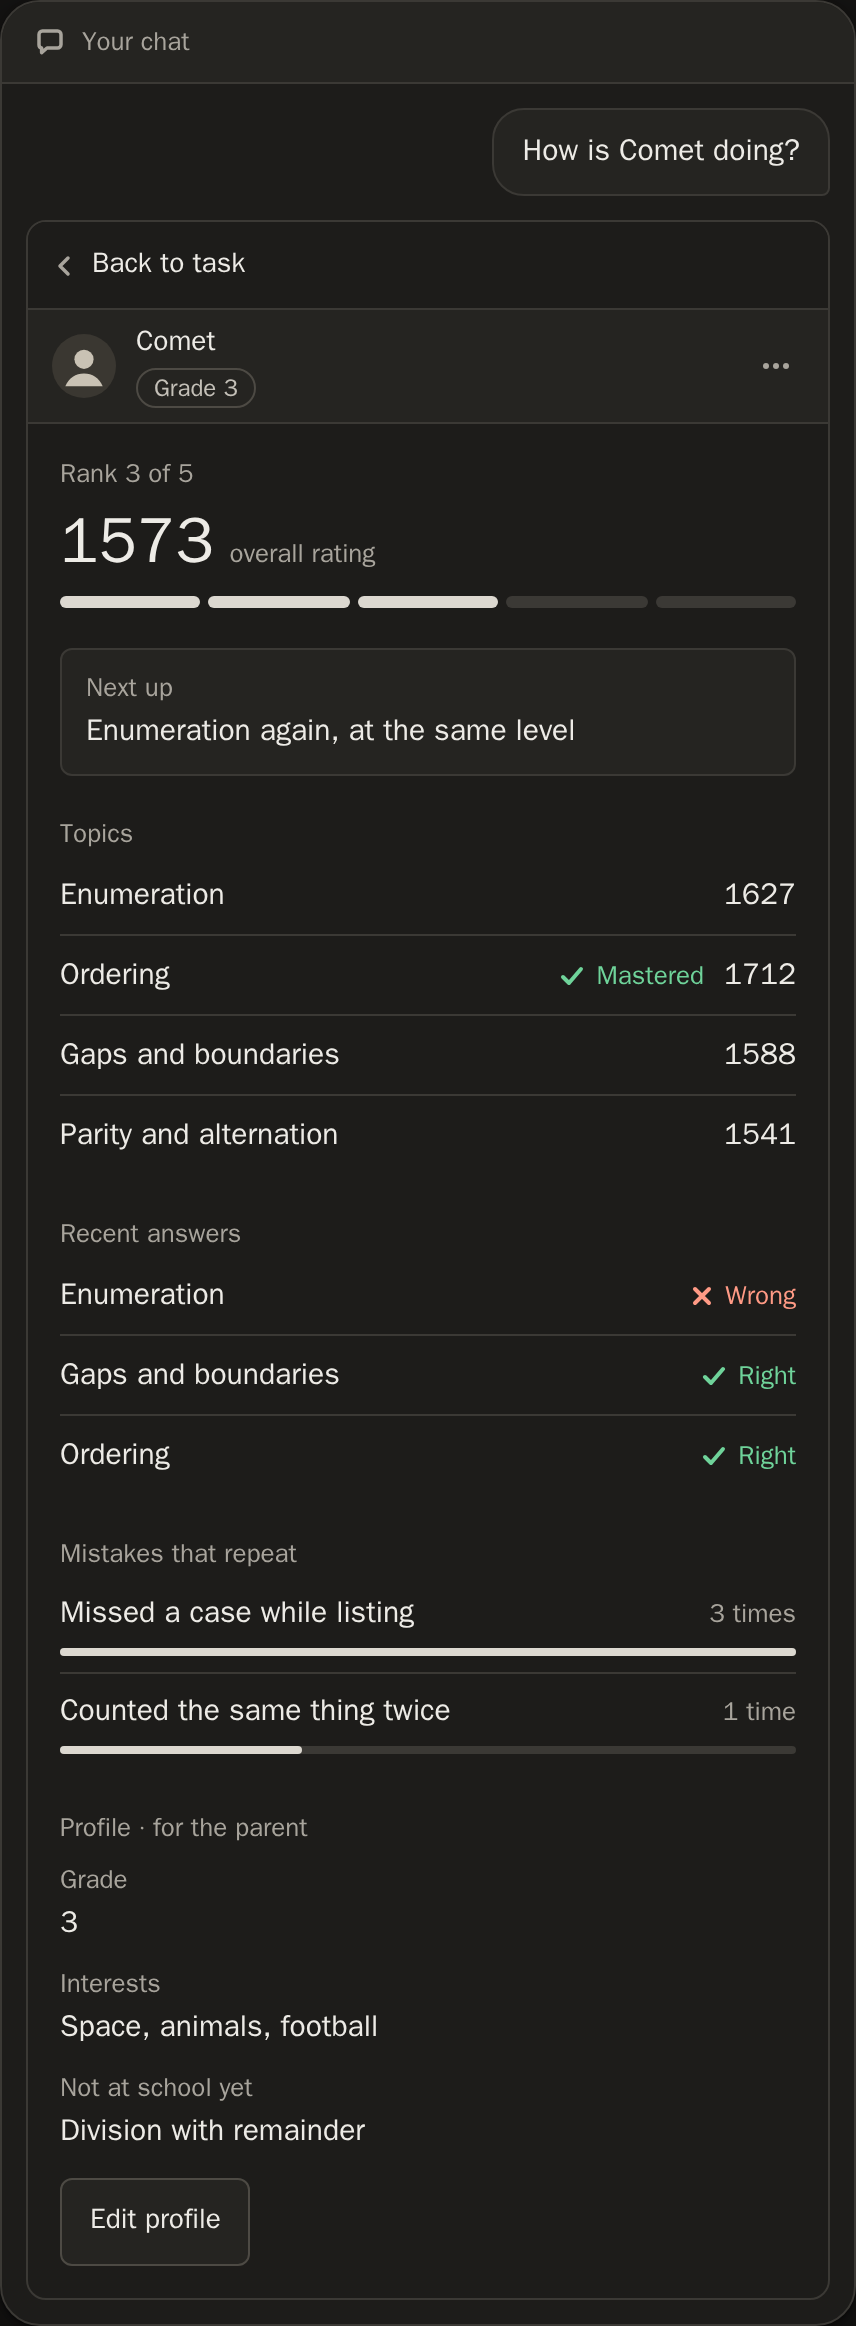
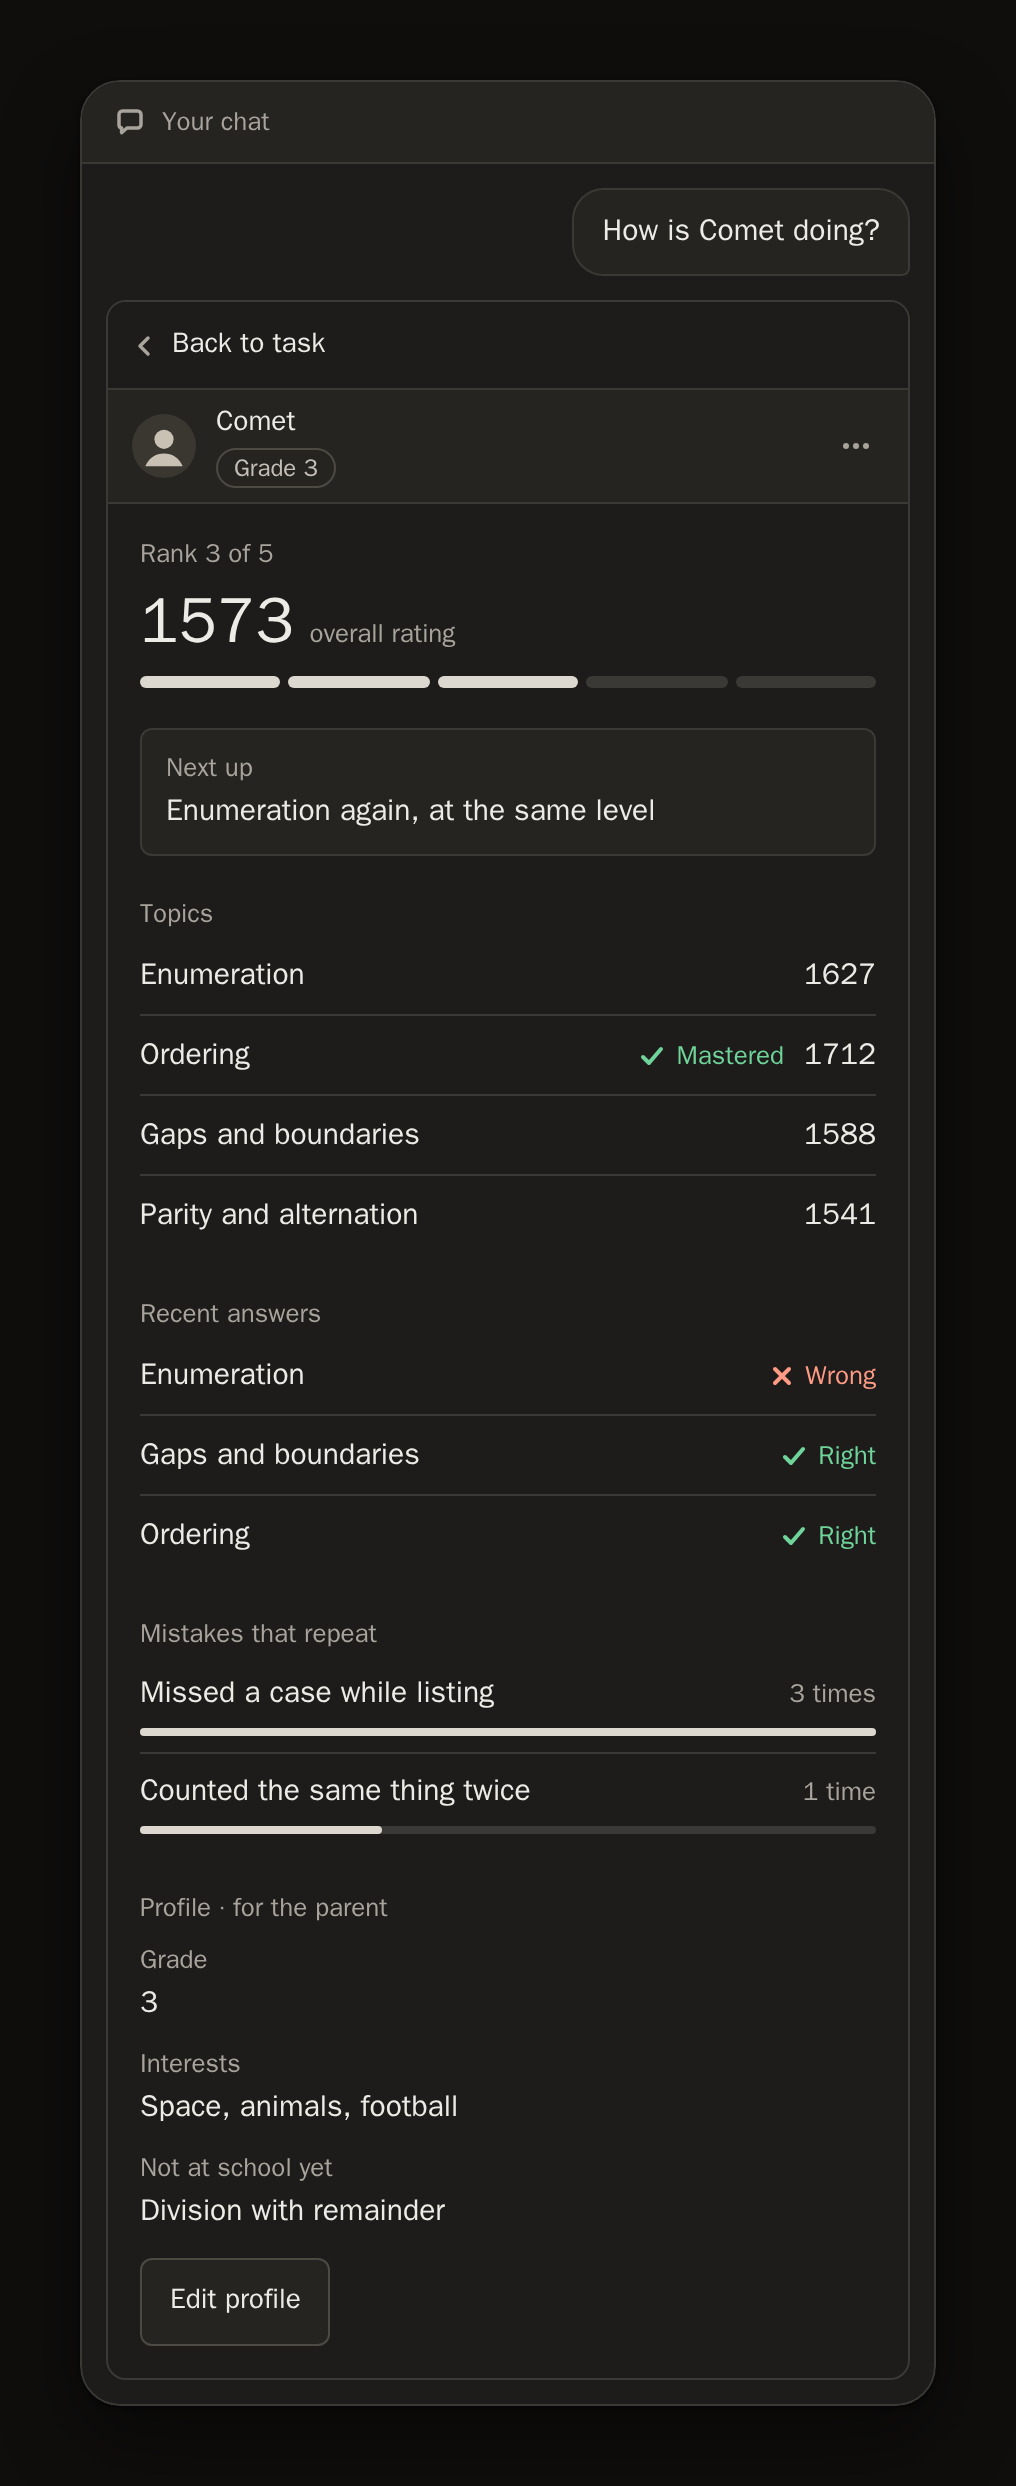
1

diff --git a/README.md b/README.md
@@ -25,7 +25,7 @@ The screens below come from the approved design of the widget, the one the widge
 
 <picture>
   <source media="(prefers-color-scheme: dark)" srcset="docs/screens/task-dark.png">
-  <img src="docs/screens/task-light.png" width="360" alt="A chat with the message 'A new task, please' and, under it, the MathTrail card. The top line reads Comet, the child's pseudonym, and Profile & progress. The card is signed MathTrail, Olympiad coach, Grade 3. The task: a fence is 12 meters long, posts stand every 3 meters, including both ends; how many posts are there? Below it, a text drawing of the fence, then five options, A 3, B 4, C 5, D 6 and E 12. At the bottom, a field to ask a question about the task and three buttons: I don't know, Hint and Another task.">
+  <img src="docs/screens/task-light.png" width="428" alt="A chat with the message 'A new task, please' and, under it, the MathTrail card. The top line reads Comet, the child's pseudonym, and Profile & progress. The card is signed MathTrail, Olympiad coach, Grade 3. The task: a fence is 12 meters long, posts stand every 3 meters, including both ends; how many posts are there? Below it, a text drawing of the fence, then five options, A 3, B 4, C 5, D 6 and E 12. At the bottom, a field to ask a question about the task and three buttons: I don't know, Hint and Another task.">
 </picture>
 
 A child asks in the chat for a new task, and it arrives as a card:
@@ -39,7 +39,7 @@ A child asks in the chat for a new task, and it arrives as a card:
 
 <picture>
   <source media="(prefers-color-scheme: dark)" srcset="docs/screens/wrong-dark.png">
-  <img src="docs/screens/wrong-light.png" width="360" alt="The same card after the child picked B, 4. Option B is framed in red and marked Your answer; option C, 5, is framed in green and marked Correct answer. Under the options, MathTrail says: Not quite, it's 5, not 4. A red note titled The trap reads: Counted the gaps instead of the posts. A solution follows in three steps: 12 divided by 3 is 4 gaps; a straight fence with posts at both ends has one more post than gaps; 4 plus 1 is 5 posts. At the bottom, the question field and a button, Another task.">
+  <img src="docs/screens/wrong-light.png" width="428" alt="The same card after the child picked B, 4. Option B is framed in red and marked Your answer; option C, 5, is framed in green and marked Correct answer. Under the options, MathTrail says: Not quite, it's 5, not 4. A red note titled The trap reads: Counted the gaps instead of the posts. A solution follows in three steps: 12 divided by 3 is 4 gaps; a straight fence with posts at both ends has one more post than gaps; 4 plus 1 is 5 posts. At the bottom, the question field and a button, Another task.">
 </picture>
 
 A tap records the answer at once, before any explanation, so nothing in the chat can talk it into being right. Every wrong option was written with a named trap behind it, and the card shows the trap the child fell into — here, counting the gaps instead of the posts — then the solution. The model explains in the chat starting from that trap, not from the right answer, and the child's rating in the topic moves.
@@ -48,7 +48,7 @@ A tap records the answer at once, before any explanation, so nothing in the chat
 
 <picture>
   <source media="(prefers-color-scheme: dark)" srcset="docs/screens/progress-dark.png">
-  <img src="docs/screens/progress-light.png" width="360" alt="The progress screen after the message 'How is Comet doing?'. The top line reads Back to task. Under Comet, Grade 3: Rank 3, an overall rating of 1573 with a bar of rank steps, and Next up: Enumeration again, at the same level. Topics with their ratings: Enumeration 1627, Ordering 1712 marked Mastered, Gaps and boundaries 1588, Parity and alternation 1541. Recent answers: Enumeration wrong, Gaps and boundaries right, Ordering right. Mistakes that repeat: Missed a case while listing, 3 times; Counted the same thing twice, 1 time. The profile for the parent: grade 3, interests space, animals and football, not at school yet division with remainder, and an Edit profile button.">
+  <img src="docs/screens/progress-light.png" width="428" alt="The progress screen after the message 'How is Comet doing?'. The top line reads Back to task. Under Comet, Grade 3: Rank 3, an overall rating of 1573 with a bar of rank steps, and Next up: Enumeration again, at the same level. Topics with their ratings: Enumeration 1627, Ordering 1712 marked Mastered, Gaps and boundaries 1588, Parity and alternation 1541. Recent answers: Enumeration wrong, Gaps and boundaries right, Ordering right. Mistakes that repeat: Missed a case while listing, 3 times; Counted the same thing twice, 1 time. The profile for the parent: grade 3, interests space, animals and football, not at school yet division with remainder, and an Edit profile button.">
 </picture>
 
 The same screen opens from the card's top line or when the child or the parent asks in the chat. It shows a chess-style rating with its rank, what comes next, the rating of every topic and the ones mastered, the recent answers, the traps that keep coming back, and the profile. All of it is one JSON file in the parent's own Google Drive.
